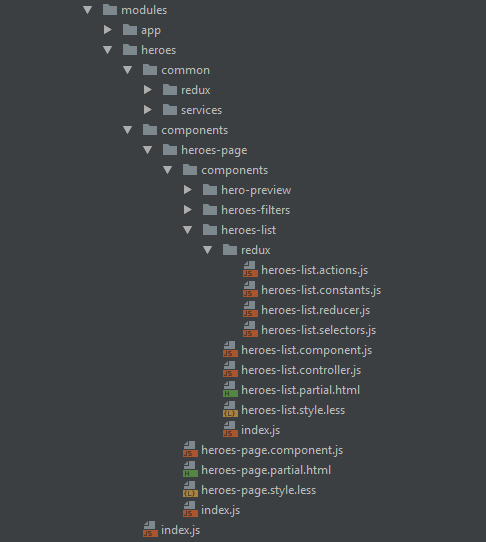
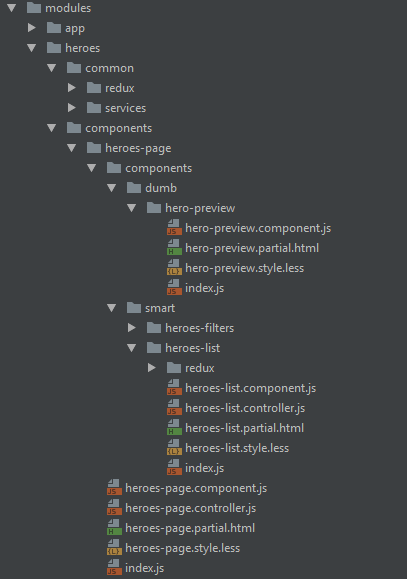
edit slides

Changed region(s): [[0.059, 0.0, 0.8256, 1.0], [0.0, 0.0, 0.0295, 0.0295]]

diff --git a/index.html b/index.html
@@ -108,7 +108,58 @@ store.subscribe(() => {
 // The only way to mutate the internal state is to dispatch an action.
 store.dispatch(ratingUp());
 store.dispatch(ratingDown());
-store.dispatch(ratingUp);</code></pre>
+store.dispatch(ratingUp());</code></pre>
+					</section>
+
+					<section>
+						<h3>combineReducers</h3>
+						<pre><code>import { combineReducers } from 'redux';
+
+function ratingReducer(state = 0, action) {
+    // как то вычисляет nextState...
+    return nextState
+}
+
+function counterReducer(state = 0, action) {
+    // как то вычисляет nextState...
+    return nextState
+}
+
+const appReducer = combineReducers({
+    rating: ratingReducer,
+    count: counterReducer
+});</code></pre>
+					</section>
+
+					<section>
+						<h3>Middlewares</h3>
+						<pre><code>import { createStore, applyMiddleware } from 'redux';
+
+const logger = store => next => action => {
+    console.log('dispatching', action)
+    let result = next(action)
+    console.log('next state', store.getState())
+    return result
+}
+
+const crashReporter = store => next => action => {
+    try {
+        return next(action)
+    } catch (err) {
+        console.error('Caught an exception!', err);
+        throw err;
+    }
+}
+
+const reducer = (state, action) {
+    return nextState;
+}
+
+const store = createStore(
+    reducer,
+    // applyMiddleware() говорит createStore() как обрабатывать мидлвэры
+    applyMiddleware(logger, crashReporter)
+);</code></pre>
 					</section>
 				</section>
 
@@ -137,13 +188,14 @@ store.dispatch(ratingUp);</code></pre>
 					</section>
 					<section>
 						<h2>ngRedux</h2>
-						<h2 style="text-decoration: line-through;">digestMiddleware</h2>
+						<h3 class="fragment" style="text-decoration: line-through;">digestMiddleware</h3>
 					</section>
 					<section>
-						<h2>Новая внутренняя стуктура</h2>
+						<h2>Новая внутренняя структура</h2>
 					</section>
 					<section>
-						<h2>Разделение на smart и dumb компоненты</h2>
+						<h3>Разделение на smart и dumb компоненты</h3>
+						<img src="images/Smart_and_dumb_components.png">
 					</section>
 				</section>
 				<section data-transition="fade">
@@ -154,6 +206,51 @@ store.dispatch(ratingUp);</code></pre>
 					<section>
 						<h4>Новая структура</h4>
 						<img src="images/new_structure.png">
+					</section>
+					<section>
+						<h4>app/index.js</h4>
+						<pre><code>import angular from 'angular';
+import ngRedux from 'common/redux';
+import thunkMiddleware from 'redux-thunk';
+
+import environment from 'environment';
+
+// app modules
+import { heroes } from 'module-heroes';
+
+// app component
+import AppComponent from './app.component';
+
+// app reducer
+import appRootReducers from './app.reducer';
+
+...
+
+const app = angular.module('app', [
+    ...environment.standardAngularModules,
+    heroes
+]);
+
+app
+    .component('app', AppComponent);
+
+app.config([
+    '$httpProvider', '$urlRouterProvider', '$stateProvider', '$translatePartialLoaderProvider', '$animateProvider',
+    '$ngReduxProvider', '$mdThemingProvider',
+    ($httpProvider, $urlRouterProvider, $stateProvider, $translatePartialLoaderProvider, $animateProvider,
+     $ngReduxProvider, $mdThemingProvider) => {
+        $ngReduxProvider.createStoreWith(appRootReducers, [thunkMiddleware], [
+            window.devToolsExtension ? window.devToolsExtension() : f => f
+        ]);
+
+        ...
+    }
+]);
+
+...
+
+export default app;
+</code></pre>
 					</section>
 					<section>
 						<h4>heroes-list.constants</h4>
@@ -209,12 +306,13 @@ export default HeroesListActions;</code></pre>
 					</section>
 					<section>
 						<h4>heroes-list.reducer</h4>
-<pre><code class="hljs">import * as ActionTypes from './heroes-list.constants';
+<pre><code class="hljs">import _ from 'lodash';
+import * as ActionTypes from './heroes-list.constants';
 
 const INITIAL_STATE = {
     loading: false,
-    data: [],
-    selected: null
+    byId: {},
+    selectedId: null
 };
 
 const heroesListReducer = (state = INITIAL_STATE, action) => {
@@ -226,16 +324,22 @@ const heroesListReducer = (state = INITIAL_STATE, action) => {
             };
         }
         case ActionTypes.LOADED_HEROES: {
+            const byId = {};
+
+            _.forEach(action.payload.heroes, (hero) => {
+                byId[hero.id] = hero;
+            });
+
             return {
                 ...state,
-                loading: false,
-                data: action.payload.heroes
+                byId,
+                loading: false
             };
         }
         case ActionTypes.SELECT_HERO: {
             return {
                 ...state,
-                selected: action.payload.heroId
+                selectedId: action.payload.heroId
             }
         }
         default:
@@ -247,8 +351,17 @@ export default heroesListReducer;</code></pre>
 					</section>
 					<section>
 						<h4>heroes-list.selectors</h4>
-<pre><code class="hljs">export const getHeroes = state => state.heroes.listPage.list.data;
-export const isLoading = state => state.heroes.listPage.list.loading;</code></pre>
+<pre><code class="hljs">import _ from 'lodash';
+import { createSelector } from 'reselect';
+
+import { getHeroesById } from 'module-heroes/common/redux/heroes-page.selectors';
+
+export const isLoading = state => state.heroes.listPage.list.loading;
+
+export const getHeroes = createSelector(
+    [getHeroesById],
+    (heroesById) => _.values(heroesById)
+);</code></pre>
 					</section>
 					<section>
 						<h4>heroes-list.controller</h4>
@@ -328,7 +441,7 @@ export default HeroesListController;</code></pre>
 				</section>
 
 				<section>
-					<h2>Трудности</h2>
+					<h2>С чем пришлось столкнуться</h2>
 					<ul>
 						<li class="fragment">В целом переход на redux-концепцию</li>
 						<li class="fragment">Разбиение на smart и dumb компоненты</li>
@@ -336,6 +449,16 @@ export default HeroesListController;</code></pre>
 					</ul>
 				</section>
 
+				<section>
+					<h2>Что нам дал Redux</h2>
+					<ul>
+						<li class="fragment">Store - единственный источник правды</li>
+						<li class="fragment">Предсказуемый data flow</li>
+						<li class="fragment">Организация кода</li>
+						<li class="fragment">Легкость тестирования</li>
+						<li class="fragment">Developer Tools</li>
+					</ul>
+				</section>
 				<section>
 					<h1>Конец!</h1>
 				</section>

diff --git a/middlewares.js b/middlewares.js
@@ -1,0 +1,33 @@
+import { createStore, applyMiddleware } from 'redux';
+
+const logger = store => next => action => {
+    console.log('dispatching', action)
+    let result = next(action)
+    console.log('next state', store.getState())
+    return result
+}
+
+const crashReporter = store => next => action => {
+    try {
+        return next(action)
+    } catch (err) {
+        console.error('Caught an exception!', err)
+        Raven.captureException(err, {
+            extra: {
+                action,
+                state: store.getState()
+            }
+        })
+        throw err
+    }
+}
+
+const reducer = (state, action) {
+    return nextState;
+}
+
+const store = createStore(
+    reducer,
+    // applyMiddleware() говорит createStore() как обрабатывать мидлвэры
+    applyMiddleware(logger, crashReporter)
+);

diff --git a/combineReducers.js b/combineReducers.js
@@ -1,0 +1,16 @@
+import { combineReducers } from 'redux';
+
+function ratingReducer(state = 0, action) {
+    // как то вычисляет nextState...
+    return nextState
+}
+
+function counterReducer(state = 0, action) {
+    // как то вычисляет nextState...
+    return nextState
+}
+
+const appReducer = combineReducers({
+    rating: ratingReducer,
+    count: counterReducer
+});

diff --git a/test.js b/test.js
@@ -36,4 +36,4 @@ store.subscribe(() => {
 // The only way to mutate the internal state is to dispatch an action.
 store.dispatch(ratingUp());
 store.dispatch(ratingDown());
-store.dispatch(ratingUp);
+store.dispatch(ratingUp());
